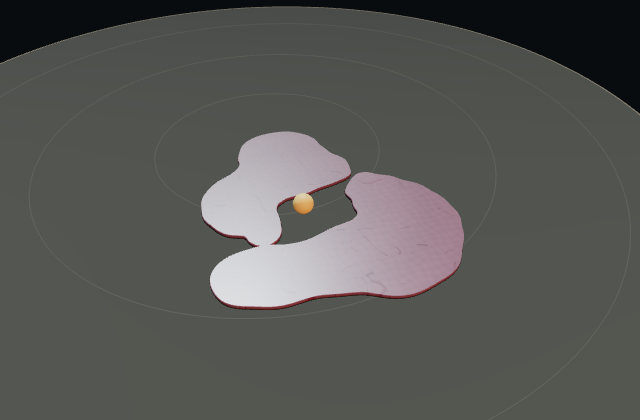
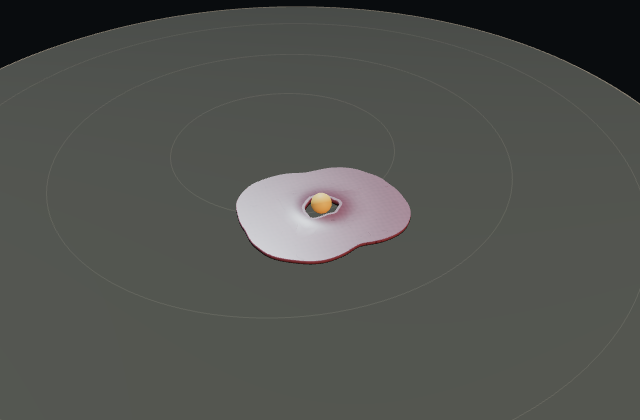
Capture the Cutisling v1 card at the engulfing moment

diff --git a/src/catalog/thumbnail.ts b/src/catalog/thumbnail.ts
@@ -26,7 +26,8 @@ export async function renderThumbnail(id:string){
     const {createInagoScene}=await import('../inago/scene.ts');
     document.body.innerHTML='<main id="inago-thumbnail" style="width:640px;height:420px"></main>';document.body.style.cssText='margin:0;overflow:hidden';
     const lab=createInagoScene(document.querySelector<HTMLElement>('#inago-thumbnail')!,id);
-    for(let i=0;i<480;i++)lab.organism.step(1/60);
+    // Cutisling is shown with its ring closed around the prey, not mid-reshaping.
+    for(let i=0;i<(id==='cutisling'?660:480);i++)lab.organism.step(1/60);
     const x=lab.organism.x.reduce((sum,v)=>sum+v,0)/lab.organism.count,z=lab.organism.z.reduce((sum,v)=>sum+v,0)/lab.organism.count;lab.controls.target.set(x,0,z);lab.camera.position.set(x+4,8,z+9);lab.draw(false);return;
   }
   if(id==='cutis-maku'||id==='cutis-maku-k'||id==='cutis-maku-pearl'||id==='cutis-gorogoro'){
